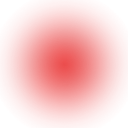
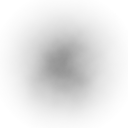
Clean: Effectクラス整理

diff --git a/Src/Effects/EffectBase.js b/Src/Effects/EffectBase.js
@@ -1,5 +1,5 @@
 /* *******************************************************************************
-	エフェクト基本クラス
+	パーティクルエフェクト基本クラス
 ********************************************************************************/
 var Effects	= Effects || {};
 var cc;
@@ -8,13 +8,36 @@ var cc;
 Effects.EffectBase	= class{
 
 	constructor(nEntities=5){
-		this.nEntities	= nEntities;
-		this.entities	= []
-		this.initialVelocity	= {x:0,y:0};
-		this.acceleration		= {x:0,y:0};
+		this.nEntities			= nEntities;
+		this.entities			= [];
+		this.initialVelocity	= { x:0, y:0, };
+		this.acceleration		= { x:0, y:0, };
 	}
 	static Create(nEntities){return new this(nEntities);}
 
+	/** entities配列の初期化
+	 * @returns {this}
+	 */
+	Init(){
+		for(let i=0; i<this.nEntities; ++i){
+			this.entities[i]	= {
+				sprite	: null,
+				exist	: false,
+				count	: 0,
+				dx		: 0,
+				dy		: 0,
+			}
+		}
+		return this;
+	}
+
+	/** パーティクルの速度設定
+	 * @param {number} initDx x初速度
+	 * @param {number} initDy y初速度
+	 * @param {number} [accelDx=0] x加速度
+	 * @param {number} [accelDy=0] y加速度
+	 * @returns {this}
+	 */
 	SetVelocity(initDx,initDy,accelDx=0,accelDy=0){
 		this.initialVelocity.x	= initDx;
 		this.initialVelocity.y	= initDy;
@@ -23,8 +46,25 @@ Effects.EffectBase	= class{
 		return this;
 	}
 
-	Init(layer){return this;}
+	/** パーティクルの色設定
+	 * @param {string} color
+	 * @returns {this}
+	 */
+	SetColor(color="#FFFFFF"){
+		for(let entity of this.entities){
+			entity.sprite.SetColor(color);
+		}
+		return this;
+	}
+
+	/** パーティクル生成
+	 * @returns {this}
+	 */
 	Spawn(){return this;}
+
+	/** パーティクル更新
+	 * @returns {this}
+	 */
 	Update(){return this;}
 
 } //class

diff --git a/Src/Effects/Meteor.js b/Src/Effects/Meteor.js
@@ -15,16 +15,13 @@ Effects.Meteor	= class extends Effects.EffectBase{
 
 	Init(layer){
 		super.Init();
-		for(let i=0; i<this.nEntities; ++i){
-			this.entities[i]	= {
+		for(let entity of this.entities){
+			entity	= Object.assign(entity,{
 				sprite	: Sprite.CreateInstance(rc.img.flare).AddToLayer(layer)
-								.SetScale(2).Attr({zIndex:0,opacity:255}).SetColor("#FF0000").SetVisible(false),
-				exist	: false,
-				count	: 0,
-				dx		: 0,
-				dy		: 0,
-			}
+							.SetScale(2).Attr({zIndex:0,opacity:255}).SetVisible(false),
+			});
 		}
+		this.SetColor();
 		return this;
 	}
 
@@ -67,6 +64,11 @@ Effects.Meteor	= class extends Effects.EffectBase{
 		}
 		return this;
 	}
+
+	SetColor(color="#FF0000"){
+		return super.SetColor(color);
+	}
+
 }
 
 })();	//File Scope

diff --git a/Src/Effects/Fly.js b/Src/Effects/Fly.js
@@ -15,17 +15,14 @@ Effects.Fly	= class extends Effects.EffectBase{
 
 	Init(layer){
 		super.Init();
-		for(let i=0; i<this.nEntities; ++i){
-			this.entities[i]	= {
+		for(let entity of this.entities){
+			entity	= Object.assign(entity,{
 				sprite	: Sprite.CreateInstance(rc.img.flyFx).AddToLayer(layer)
 								.SetPosition(100,100).Attr({zIndex:3,opacity:255}).SetBlend(cc.BlendFunc.ADDITIVE).SetVisible(false),
-				exist	: false,
-				count	: 0,
-				dy		: 0,
-				dx		: 0,
 				scale	: 1.0,
-			}
+			});
 		}
+		this.SetColor("#FFFFFF");
 		return this;
 	}
 
